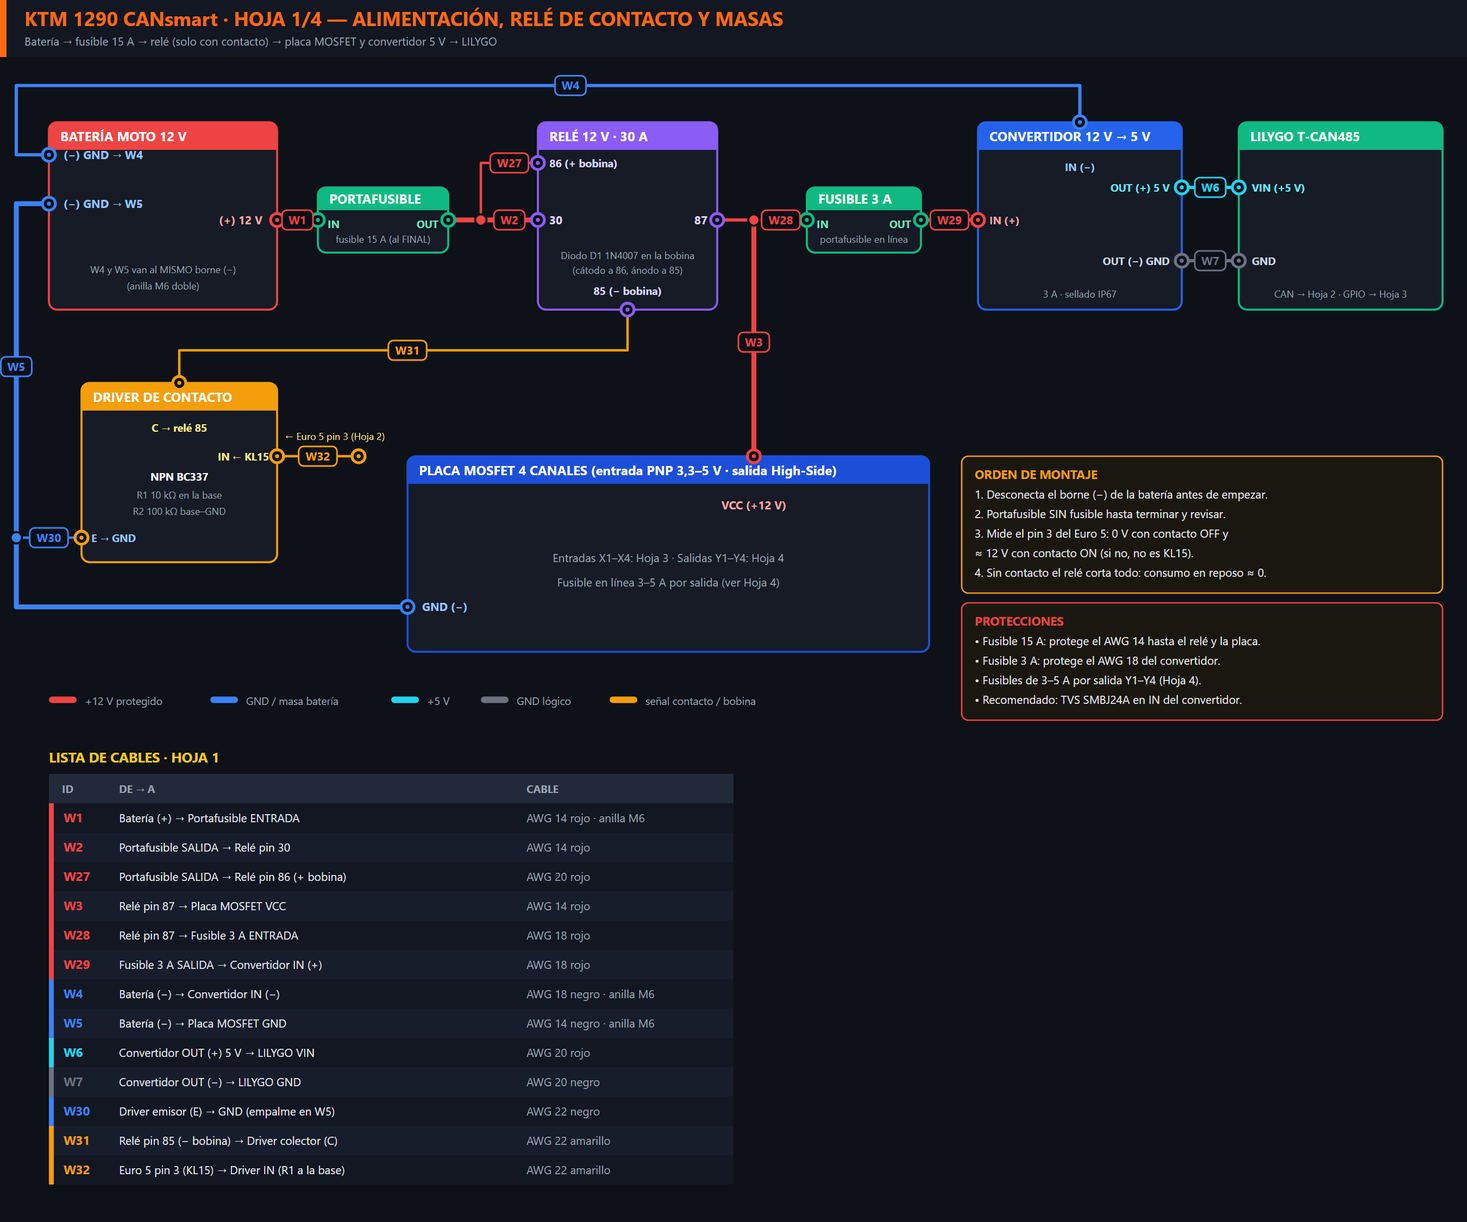
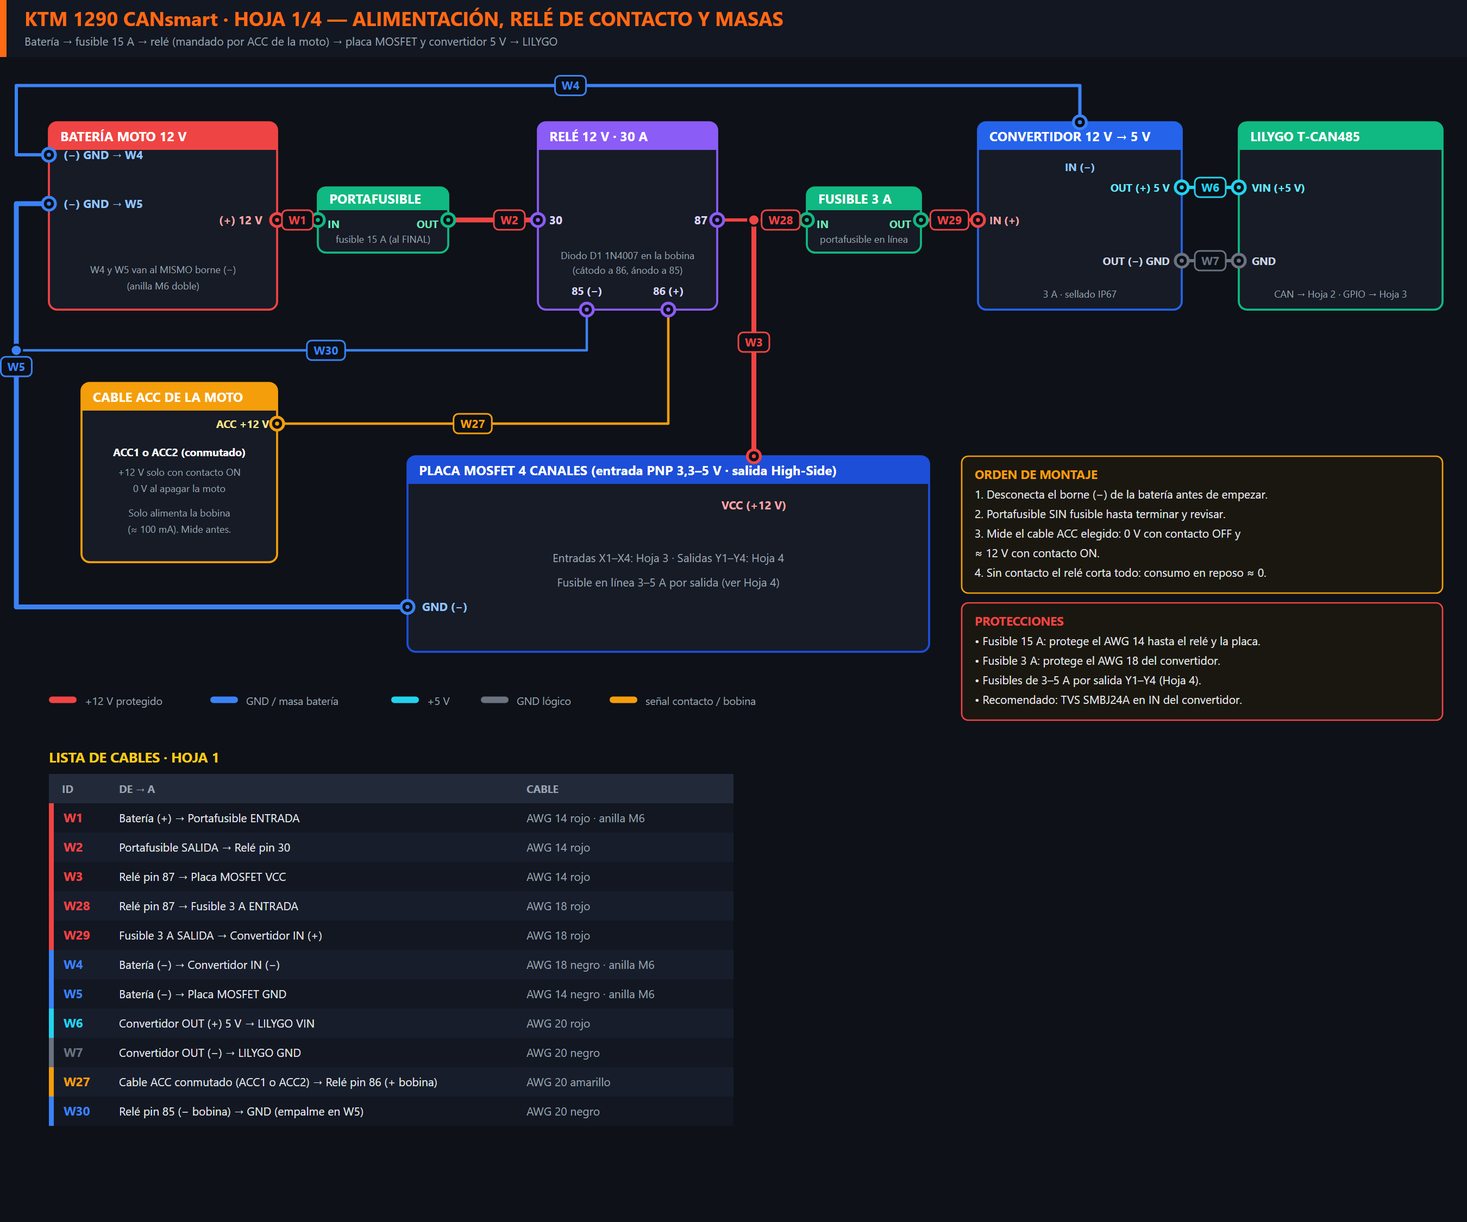
Relé de contacto mandado por ACC1/ACC2 de la moto; se elimina el driver NPN y el uso del pin 3 Euro 5

diff --git a/hardware/generate_diagrams.py b/hardware/generate_diagrams.py
@@ -150,7 +150,7 @@ COLS = [("ID", 70), ("DE  →  A", 500), ("CABLE", 270)]
 def sheet1():
     PURPLE = "#8b5cf6"
     s = Sheet("01_alimentacion", 1, "ALIMENTACIÓN, RELÉ DE CONTACTO Y MASAS",
-              "Batería → fusible 15 A → relé (solo con contacto) → placa MOSFET y convertidor 5 V → LILYGO", 1800, 1500)
+              "Batería → fusible 15 A → relé (mandado por ACC de la moto) → placa MOSFET y convertidor 5 V → LILYGO", 1800, 1500)
 
     # Batería
     s.box(60, 150, 280, 230, "BATERÍA MOTO 12 V", RED)
@@ -169,9 +169,9 @@ def sheet1():
     # Relé de contacto
     s.box(660, 150, 220, 230, "RELÉ 12 V · 30 A", PURPLE)
     s.text(674, 275, "30", 14, "#ddd6fe", "bold")
-    s.text(674, 205, "86 (+ bobina)", 13, "#ddd6fe", "bold")
     s.text(868, 275, "87", 14, "#ddd6fe", "bold", "end")
-    s.text(770, 362, "85 (− bobina)", 13, "#ddd6fe", "bold", "middle")
+    s.text(720, 362, "85 (−)", 13, "#ddd6fe", "bold", "middle")
+    s.text(820, 362, "86 (+)", 13, "#ddd6fe", "bold", "middle")
     s.text(770, 318, "Diodo D1 1N4007 en la bobina", 12, MUTED, "normal", "middle")
     s.text(770, 336, "(cátodo a 86, ánodo a 85)", 12, MUTED, "normal", "middle")
 
@@ -196,14 +196,13 @@ def sheet1():
     s.text(1645, 365, "CAN → Hoja 2 · GPIO → Hoja 3", 12, MUTED, "normal", "middle")
 
     # Driver de contacto
-    s.box(100, 470, 240, 220, "DRIVER DE CONTACTO", AMBER)
-    s.text(220, 530, "C → relé 85", 13, "#fde68a", "bold", "middle")
-    s.text(330, 565, "IN ← KL15", 13, "#fde68a", "bold", "end")
-    s.text(112, 665, "E → GND", 13, "#93c5fd", "bold")
-    s.text(220, 590, "NPN BC337", 13, "#ffffff", "bold", "middle")
-    s.text(220, 612, "R1 10 kΩ en la base", 12, MUTED, "normal", "middle")
-    s.text(220, 632, "R2 100 kΩ base–GND", 12, MUTED, "normal", "middle")
-    s.text(350, 540, "← Euro 5 pin 3 (Hoja 2)", 12, "#fde68a")
+    s.box(100, 470, 240, 220, "CABLE ACC DE LA MOTO", AMBER)
+    s.text(330, 525, "ACC +12 V", 13, "#fde68a", "bold", "end")
+    s.text(220, 560, "ACC1 o ACC2 (conmutado)", 13, "#ffffff", "bold", "middle")
+    s.text(220, 584, "+12 V solo con contacto ON", 12, MUTED, "normal", "middle")
+    s.text(220, 604, "0 V al apagar la moto", 12, MUTED, "normal", "middle")
+    s.text(220, 634, "Solo alimenta la bobina", 12, MUTED, "normal", "middle")
+    s.text(220, 654, "(≈ 100 mA). Mide antes.", 12, MUTED, "normal", "middle")
 
     # Placa MOSFET
     s.box(500, 560, 640, 240, "PLACA MOSFET 4 CANALES (entrada PNP 3,3–5 V · salida High-Side)", "#1d4ed8")
@@ -215,7 +214,6 @@ def sheet1():
     # Cables
     s.wire([(340, 270), (390, 270)], RED, 6, "W1", (365, 270))
     s.wire([(550, 270), (660, 270)], RED, 6, "W2", (625, 270))
-    s.wire([(590, 270), (590, 200), (660, 200)], RED, 3, "W27", (625, 200))
     s.wire([(925, 270), (925, 560)], RED, 6, "W3", (925, 420))
     s.wire([(880, 270), (990, 270)], RED, 4, "W28", (958, 270))
     s.wire([(1130, 270), (1200, 270)], RED, 4, "W29", (1165, 270))
@@ -223,25 +221,22 @@ def sheet1():
     s.wire([(60, 250), (20, 250), (20, 745), (500, 745)], BLUE, 6, "W5", (20, 450))
     s.wire([(1450, 230), (1520, 230)], CYAN, 4, "W6", (1485, 230))
     s.wire([(1450, 320), (1520, 320)], GREY, 4, "W7", (1485, 320))
-    s.wire([(100, 660), (20, 660)], BLUE, 3, "W30", (60, 660))
-    s.wire([(770, 380), (770, 430), (220, 430), (220, 470)], AMBER, 3, "W31", (500, 430))
-    s.wire([(340, 560), (440, 560)], AMBER, 3, "W32", (390, 560))
+    s.wire([(340, 520), (820, 520), (820, 380)], AMBER, 3, "W27", (580, 520))
+    s.wire([(720, 380), (720, 430), (20, 430)], BLUE, 3, "W30", (400, 430))
 
     # Terminales
-    for x, y, c in [(340, 270, RED), (390, 270, GREEN), (550, 270, GREEN), (660, 270, PURPLE), (660, 200, PURPLE),
-                    (880, 270, PURPLE), (770, 380, PURPLE), (990, 270, GREEN), (1130, 270, GREEN),
+    for x, y, c in [(340, 270, RED), (390, 270, GREEN), (550, 270, GREEN), (660, 270, PURPLE),
+                    (880, 270, PURPLE), (720, 380, PURPLE), (820, 380, PURPLE), (990, 270, GREEN), (1130, 270, GREEN),
                     (1200, 270, RED), (925, 560, RED), (60, 190, BLUE), (60, 250, BLUE), (1325, 150, BLUE),
                     (1450, 230, CYAN), (1450, 320, GREY), (1520, 230, CYAN), (1520, 320, GREY),
-                    (500, 745, BLUE), (100, 660, AMBER), (220, 470, AMBER), (340, 560, AMBER), (440, 560, AMBER)]:
+                    (500, 745, BLUE), (340, 520, AMBER)]:
         s.term(x, y, c)
-    s.junction(590, 270, RED)
     s.junction(925, 270, RED)
-    s.junction(20, 660, BLUE)
+    s.junction(20, 430, BLUE)
 
     rows = [
         ("W1", "Batería (+)  →  Portafusible ENTRADA", "AWG 14 rojo · anilla M6", RED),
         ("W2", "Portafusible SALIDA  →  Relé pin 30", "AWG 14 rojo", RED),
-        ("W27", "Portafusible SALIDA  →  Relé pin 86 (+ bobina)", "AWG 20 rojo", RED),
         ("W3", "Relé pin 87  →  Placa MOSFET VCC", "AWG 14 rojo", RED),
         ("W28", "Relé pin 87  →  Fusible 3 A ENTRADA", "AWG 18 rojo", RED),
         ("W29", "Fusible 3 A SALIDA  →  Convertidor IN (+)", "AWG 18 rojo", RED),
@@ -249,16 +244,15 @@ def sheet1():
         ("W5", "Batería (−)  →  Placa MOSFET GND", "AWG 14 negro · anilla M6", BLUE),
         ("W6", "Convertidor OUT (+) 5 V  →  LILYGO VIN", "AWG 20 rojo", CYAN),
         ("W7", "Convertidor OUT (−)  →  LILYGO GND", "AWG 20 negro", GREY),
-        ("W30", "Driver emisor (E)  →  GND (empalme en W5)", "AWG 22 negro", BLUE),
-        ("W31", "Relé pin 85 (− bobina)  →  Driver colector (C)", "AWG 22 amarillo", AMBER),
-        ("W32", "Euro 5 pin 3 (KL15)  →  Driver IN (R1 a la base)", "AWG 22 amarillo", AMBER),
+        ("W27", "Cable ACC conmutado (ACC1 o ACC2)  →  Relé pin 86 (+ bobina)", "AWG 20 amarillo", AMBER),
+        ("W30", "Relé pin 85 (− bobina)  →  GND (empalme en W5)", "AWG 20 negro", BLUE),
     ]
     s.table(60, 950, COLS, rows, "LISTA DE CABLES · HOJA 1")
     s.note(1180, 560, 590, [
         "1. Desconecta el borne (−) de la batería antes de empezar.",
         "2. Portafusible SIN fusible hasta terminar y revisar.",
-        "3. Mide el pin 3 del Euro 5: 0 V con contacto OFF y",
-        "   ≈ 12 V con contacto ON (si no, no es KL15).",
+        "3. Mide el cable ACC elegido: 0 V con contacto OFF y",
+        "   ≈ 12 V con contacto ON.",
         "4. Sin contacto el relé corta todo: consumo en reposo ≈ 0.",
     ], AMBER, "ORDEN DE MONTAJE")
     s.note(1180, 740, 590, [
@@ -284,7 +278,7 @@ def sheet2():
     pins = [
         ("1", "CAN-H", "Naranja / Negro", CAN_H, "→ W8"),
         ("2", "CAN-L", "Naranja / Marrón", CAN_L, "→ W9"),
-        ("3", "+12 V", "contacto (KL15)", AMBER, "→ W32 (solo señal)"),
+        ("3", "s/ verificar", "no usado", GREY, "NO CONECTAR"),
         ("4", "GND", "masa", "#94a3b8", "→ W10"),
         ("5", "K-Line", "diagnóstico", GREY, "NO CONECTAR"),
         ("6", "Aux", "diagnóstico", GREY, "NO CONECTAR"),
@@ -311,12 +305,6 @@ def sheet2():
         s.text(x0 + 70, 644, name, 17, "#ffffff", "bold", "middle")
         s.text(x0 + 70, 672, sub, 12, MUTED, "normal", "middle")
 
-    s.cell(410, 440, 140, 70, AMBER)
-    s.text(480, 470, "DRIVER CONTACTO", 13, "#ffffff", "bold", "middle")
-    s.text(480, 492, "Hoja 1 · R1 10 kΩ", 12, MUTED, "normal", "middle")
-    s.wire([(480, 315), (480, 440)], AMBER, 4, "W32", (480, 380))
-    s.term(480, 315, AMBER)
-    s.term(480, 440, AMBER)
     s.text(80, 735, "Transceptor SN65HVD231 interno · TWAI a 500 kbps · RX = GPIO 26, TX = GPIO 27 (ya cableados en la placa)", 13, MUTED)
     s.text(80, 760, "El firmware activa GPIO 16 = HIGH al arrancar (alimenta el transceptor).", 13, MUTED)
 
@@ -330,13 +318,11 @@ def sheet2():
         ("W8", "Euro 5 Pin 1 (CAN-H)  →  LILYGO CAN_H", "AWG 22 · naranja/negro", CAN_H),
         ("W9", "Euro 5 Pin 2 (CAN-L)  →  LILYGO CAN_L", "AWG 22 · naranja/marrón", CAN_L),
         ("W10", "Euro 5 Pin 4 (GND)  →  LILYGO GND (bornera CAN)", "AWG 22 · negro", "#94a3b8"),
-        ("W32", "Euro 5 Pin 3 (KL15)  →  Driver de contacto (Hoja 1)", "AWG 22 · amarillo", AMBER),
     ]
     s.table(1090, 185, [("ID", 70), ("DE  →  A", 390), ("CABLE", 210)], rows, "LISTA DE CABLES · HOJA 2")
     s.note(1090, 400, 660, [
-        "• Pin 3 (KL15): SOLO como señal hacia el driver (W32), NUNCA potencia.",
-        "  Verifica: 0 V con contacto OFF y ≈ 12 V con ON.",
-        "• Pines 5 y 6 (K-Line/aux): sin conectar.",
+        "• Pines 3, 5 y 6: sin conectar. El contacto lo da el",
+        "  cable ACC de la moto (Hoja 1, W27), no el Euro 5.",
         "• Jumper/interruptor de 120 Ω de la LILYGO en OFF:",
         "  la moto ya trae sus dos resistencias de terminación.",
         "• Con la batería desconectada, entre CAN_H y CAN_L",

diff --git a/EsquematicoConexiones.md b/EsquematicoConexiones.md
@@ -2,14 +2,14 @@
 
 Guía de cableado de la **KTM 1290 Super Adventure S (2024 Euro 5)** con los materiales de [`ListaCompras.md`](ListaCompras.md).
 
-El esquema está dividido en **4 hojas**. Cada hoja es una etapa del montaje, **cada cable tiene un ID (W1…W32)** que es el mismo en la imagen y en las tablas de este documento, y ningún cable se cruza ni se solapa con otro.
+El esquema está dividido en **4 hojas**. Cada hoja es una etapa del montaje, **cada cable tiene un ID (W1…W30)** que es el mismo en la imagen y en las tablas de este documento, y ningún cable se cruza ni se solapa con otro.
 
 > 🖼 Cada hoja existe en **PNG** (para ver/imprimir) y en **SVG** (el mismo dibujo en vectorial, ampliable sin perder calidad) dentro de [`hardware/diagramas/`](hardware/diagramas/). Son idénticos: usa el que prefieras. Se regeneran con `python hardware/generate_diagrams.py`.
 
 | Hoja | Qué conectas | Cables |
 | :---: | :--- | :---: |
-| [1 · Alimentación](#hoja-1--alimentación-relé-de-contacto-y-masas) | Batería → fusible 15 A → relé de contacto → placa MOSFET y convertidor 5 V → LILYGO | W1–W7, W27–W32 |
-| [2 · Bus CAN](#hoja-2--bus-can-solo-escucha) | Conector rojo Euro 5 → LILYGO (y pin 3 → driver del relé) | W8–W10, W32 |
+| [1 · Alimentación](#hoja-1--alimentación-relé-de-contacto-y-masas) | Batería → fusible 15 A → relé de contacto (bobina por ACC de la moto) → placa MOSFET y convertidor 5 V → LILYGO | W1–W7, W27–W30 |
+| [2 · Bus CAN](#hoja-2--bus-can-solo-escucha) | Conector rojo Euro 5 → LILYGO (solo CAN-H, CAN-L y GND) | W8–W10 |
 | [3 · Señales PWM](#hoja-3--señales-pwm-lilygo--placa-mosfet) | LILYGO → entradas de la placa MOSFET | W11–W15 |
 | [4 · Salidas](#hoja-4--salidas-a-los-conectores-superseal) | Placa MOSFET → 4 conectores Superseal + regleta GND | W16–W26 |
 
@@ -25,7 +25,6 @@ El esquema está dividido en **4 hojas**. Cada hoja es una etapa del montaje, **
 | :---: | :--- | :--- |
 | **W1** | Batería (+) → Portafusible ENTRADA | AWG 14 rojo · anilla M6 |
 | **W2** | Portafusible SALIDA → Relé pin 30 | AWG 14 rojo |
-| **W27** | Portafusible SALIDA → Relé pin 86 (+ bobina) | AWG 20 rojo |
 | **W3** | Relé pin 87 → Placa MOSFET VCC | AWG 14 rojo |
 | **W28** | Relé pin 87 → Fusible 3 A ENTRADA | AWG 18 rojo |
 | **W29** | Fusible 3 A SALIDA → Convertidor IN (+) | AWG 18 rojo |
@@ -33,15 +32,14 @@ El esquema está dividido en **4 hojas**. Cada hoja es una etapa del montaje, **
 | **W5** | Batería (−) → Placa MOSFET GND | AWG 14 negro · anilla M6 |
 | **W6** | Convertidor OUT (+) 5 V → LILYGO VIN | AWG 20 rojo |
 | **W7** | Convertidor OUT (−) → LILYGO GND | AWG 20 negro |
-| **W30** | Driver emisor (E) → GND (empalme en W5) | AWG 22 negro |
-| **W31** | Relé pin 85 (− bobina) → Driver colector (C) | AWG 22 amarillo |
-| **W32** | Euro 5 pin 3 (KL15) → Driver IN (R1 10 kΩ a la base) | AWG 22 amarillo |
+| **W27** | Cable ACC conmutado (ACC1 o ACC2) → Relé pin 86 (+ bobina) | AWG 20 amarillo |
+| **W30** | Relé pin 85 (− bobina) → GND (empalme en W5) | AWG 20 negro |
 
 **Por qué hay un relé de contacto:** sin él, la LILYGO (con WiFi), el convertidor y la placa MOSFET quedan conectados al +12 V permanente y consumen unos 60–100 mA incluso con la moto parada (≈ 2 Ah/día: descarga la batería en pocos días). Con el relé, todo se corta cuando se quita el contacto y el consumo en reposo es ≈ 0.
 
-**Driver de contacto (módulo de 4 componentes):** transistor NPN `BC337`, resistencia `R1 10 kΩ` en serie con la base, resistencia `R2 100 kΩ` entre base y GND, y diodo `D1 1N4007` en antiparalelo con la bobina del relé (cátodo a pin 86, ánodo a pin 85). El pin 3 del Euro 5 solo entrega una señal de mando (unos 1 mA), nunca potencia.
+**Mando del relé por ACC:** la moto tiene los conectores **ACC1 y ACC2**, que según el propietario quedan a 0 V al apagar la moto. Uno de ellos (conmutado) alimenta **solo la bobina** del relé (pin 86, ≈ 100 mA) y el pin 85 va a masa. En paralelo con la bobina va el diodo `D1 1N4007` (cátodo a pin 86, ánodo a pin 85). Ya no hace falta transistor ni resistencias, y el pin 3 del Euro 5 no se usa. La potencia de las luces **no** sale del ACC, sino de la batería por el fusible de 15 A y el contacto del relé (pines 30/87).
 
-> ⚠ **Antes de montar el driver, mide el pin 3 del Euro 5** con un multímetro respecto al pin 4 (GND): debe dar ≈ 0 V con el contacto OFF y ≈ 12 V con el contacto ON. Si no es así, no es KL15 y habrá que usar otra toma de contacto (p. ej. la salida switched del fusible del contacto de la moto).
+> ⚠ **Antes de conectar, mide el cable ACC elegido** con un multímetro respecto a masa: debe dar ≈ 0 V con el contacto OFF y ≈ 12 V con el contacto ON. Comprueba también en el manual qué corriente y fusible tiene el circuito ACC (la bobina solo necesita ≈ 100 mA).
 
 **Fusibles:** 15 A en el portafusible principal (protege el AWG 14 y la placa), 3 A en línea para el convertidor (AWG 18) y 3–5 A en línea en cada salida Y1–Y4 (AWG 16).
 
@@ -56,9 +54,8 @@ El esquema está dividido en **4 hojas**. Cada hoja es una etapa del montaje, **
 | **W8** | Euro 5 Pin 1 (CAN-H, naranja/negro) → LILYGO `CAN_H` | AWG 22 |
 | **W9** | Euro 5 Pin 2 (CAN-L, naranja/marrón) → LILYGO `CAN_L` | AWG 22 |
 | **W10** | Euro 5 Pin 4 (GND) → LILYGO `GND` (bornera CAN) | AWG 22 |
-| **W32** | Euro 5 Pin 3 (KL15) → Driver de contacto (Hoja 1), solo señal | AWG 22 amarillo |
 
-Pines 5/6 (K-Line/aux) del conector Euro 5: **no se conectan**. El Pin 3 se usa **solo como señal** hacia el driver del relé (W32), nunca como alimentación.
+Pines 3, 5 y 6 del conector Euro 5: **no se conectan**. El contacto lo da el cable ACC de la moto (Hoja 1, W27), no el Euro 5.
 
 ---
 
@@ -114,9 +111,9 @@ Recomendado: una resistencia de **10 kΩ** de cada entrada X1–X4 a COM, para q
 ```mermaid
 graph LR
     BAT["Batería 12 V"] -->|W1| FUSE["Portafusible 15 A"]
-    FUSE -->|"W2, W27"| REL["Relé de contacto"]
-    EURO3["Euro 5 pin 3 (KL15)"] -->|"W32 (señal)"| DRV["Driver NPN"]
-    DRV -->|W31| REL
+    FUSE -->|"W2"| REL["Relé de contacto"]
+    ACC["Cable ACC1/ACC2 (conmutado)"] -->|"W27 (bobina 86)"| REL
+    REL -->|"W30 (85 a GND)"| GNDB["GND batería"]
     REL -->|W3| MOS["Placa MOSFET 4CH"]
     REL -->|"W28, W29 (fusible 3 A)"| DCDC["Convertidor 12V→5V"]
     BAT -->|"W4, W5 (GND)"| DCDC
@@ -138,6 +135,6 @@ graph LR
 3. **Escucha pasiva del bus CAN (Listen-Only):** el firmware usa `TWAI_MODE_LISTEN_ONLY`. Tu placa solo escucha; no envía ACK ni inyecta tramas, así que no afecta a la ECU ni al ABS.
 4. **Resistencia de 120 Ω de la LILYGO:** el bus CAN de la KTM ya tiene sus dos terminaciones. Si la placa trae un puente/interruptor `120R`/`R2`, **déjalo en OFF**. Entre CAN_H y CAN_L debes medir ≈ 60 Ω.
 5. **Conmutación High-Side obligatoria:** la placa MOSFET debe ser de salida **PNP (High-Side)**. Una de salida NPN (Low-Side) deja las luces encendidas siempre, porque la masa del chasis cierra el circuito.
-6. **Pin 3 del Euro 5 solo como señal:** mídelo antes (0 V con contacto OFF, ≈ 12 V con contacto ON) y úsalo únicamente para el driver del relé (W32).
+6. **ACC solo para la bobina del relé:** mide el cable ACC antes (0 V con contacto OFF, ≈ 12 V con ON). Nunca cargues las luces ni la placa en el ACC.
 7. **Cargas de más de 3–5 A:** nunca directas a una salida Y; usa un relé excitado por la salida, con fusible propio.
 8. **Aislamiento en la caja IP65:** fija la LILYGO y la placa MOSFET con separadores o cinta de espuma para que las soldaduras no se toquen con las vibraciones.

diff --git a/hardware/schematic_notes.md b/hardware/schematic_notes.md
@@ -13,12 +13,12 @@ En los modelos 2021-2024, KTM sustituyó los antiguos conectores propietarios y 
        ┌───────────────┐
        │   [ 1 ] [ 2 ] │     Pin 1: CAN High (CAN-H)  -> Cable Naranja/Negro
    ┌───┤   [ 3 ] [ 4 ] ├───┐ Pin 2: CAN Low (CAN-L)   -> Cable Naranja/Marrón
-   │   │   [ 5 ] [ 6 ] │   │ Pin 3: +12V Positivo Contacto (KL15)
+   │   │   [ 5 ] [ 6 ] │   │ Pin 3: sin uso (no verificado)
    └───┴───────────────┴───┘ Pin 4: Tierra / Masa (GND)
                              Pin 5 / 6: K-Line / Diagnóstico Auxiliar
 ```
 
-> **IMPORTANTE DE SEGURIDAD**: Para máxima fiabilidad y evitar caídas de tensión en accesorios de alta potencia (luces de 60W-120W), la alimentación de potencia **NO** debe tomarse del pin 3 del conector Euro 5. La potencia se toma **de los bornes de la batería (+12V permanente KL30) con un fusible aéreo de 15A** y pasa por un **relé de contacto** que solo cierra con la moto encendida (así el consumo en reposo es ≈ 0 y no se descarga la batería). El pin 3 del Euro 5 (KL15) se usa **solo como señal** de mando de ese relé (a través de un transistor), nunca como potencia; **mídelo antes** (0 V con contacto OFF, ≈ 12 V con ON). El resto del conector Euro 5 se usa para leer **CAN-H**, **CAN-L** y masa **GND**.
+> **IMPORTANTE DE SEGURIDAD**: Para máxima fiabilidad y evitar caídas de tensión en accesorios de alta potencia (luces de 60W-120W), la alimentación de potencia **NO** debe tomarse del pin 3 del conector Euro 5. La potencia se toma **de los bornes de la batería (+12V permanente KL30) con un fusible aéreo de 15A** y pasa por un **relé de contacto** que solo cierra con la moto encendida (así el consumo en reposo es ≈ 0 y no se descarga la batería). La bobina del relé se alimenta con el cable **ACC1 o ACC2** de la moto (conmutado: 0 V al apagar, ≈ 12 V con contacto), **solo para la bobina** (≈ 100 mA); **mídelo antes**. El pin 3 del Euro 5 no se usa. El resto del conector Euro 5 se usa para leer **CAN-H**, **CAN-L** y masa **GND**.
 
 ---
 
@@ -63,7 +63,7 @@ En los modelos 2021-2024, KTM sustituyó los antiguos conectores propietarios y 
      * Pin 1 (Naranja/Negro): `CAN_H` ➔ Borna CAN_H de la LILYGO.
      * Pin 2 (Naranja/Marrón): `CAN_L` ➔ Borna CAN_L de la LILYGO.
      * Pin 4 (Marrón/Negro): `GND` ➔ Borna GND de la LILYGO.
-     * Pin 3 (+12V contacto, KL15): **solo señal** hacia el driver NPN del relé de contacto (W32). Nunca como potencia.
+     * Pin 3: no se conecta. El mando del relé sale del cable ACC1/ACC2 de la moto (W27).
 
 2. **Convertidor Reductor DC-DC Automotriz (12V a 5V 3A)**:
    * **Modelo**: Carcasa sellada en resina epoxi impermeable (IP67).

diff --git a/ListaCompras.md b/ListaCompras.md
@@ -18,7 +18,7 @@ Guía completa y estado actualizado de compras para la construcción del clon DI
 | **Cable Siliconado** | ⏳ *Pendiente* | Cable de silicona flexible resistente al calor: **AWG 14** (batería) y **AWG 16** (focos) | [Comprar Cable Siliconado](https://es.aliexpress.com/w/wholesale-silicone-wire-awg14-awg16.html) |
 | **Terminales de Anilla M6** | ⏳ *Pendiente* | Terminales de anilla M6 para bornes de la batería | [Comprar Terminales M6](https://es.aliexpress.com/w/wholesale-ring-terminals-m6.html) |
 | **Relé de contacto** | ⏳ *Pendiente* | Relé automotriz 12 V 30 A (4 pines, ISO mini) + zócalo con cables | [Buscar relé 12V 30A](https://es.aliexpress.com/w/wholesale-12v-30a-automotive-relay-socket.html) |
-| **Driver del relé** | ⏳ *Pendiente* | 1 transistor NPN `BC337`, 1 diodo `1N4007`, resistencias: 1×10 kΩ, 1×100 kΩ (+ 4×10 kΩ opcionales para las entradas X1–X4) | [Buscar kit resistencias y transistores](https://es.aliexpress.com/w/wholesale-bc337-1n4007-resistor-kit.html) |
+| **Diodo y pull-downs** | ⏳ *Pendiente* | 1 diodo `1N4007` en la bobina del relé; 4×10 kΩ opcionales (pull-down de las entradas X1–X4). Para derivar el cable ACC: conector o toma tipo Posi-Tap/Wago | [Buscar kit resistencias y transistores](https://es.aliexpress.com/w/wholesale-bc337-1n4007-resistor-kit.html) |
 | **Fusibles en línea** | ⏳ *Pendiente* | 1 fusible de 15 A (principal), 1 portafusible mini ATO con fusible de 3 A (convertidor) y 4 portafusibles mini ATO con fusibles de 3–5 A (salidas) | [Buscar portafusibles ATO en línea](https://es.aliexpress.com/w/wholesale-inline-mini-blade-fuse-holder.html) |
 | **TVS (opcional)** | ⏳ *Pendiente* | Diodo TVS `SMBJ24A` en la entrada del convertidor (picos de alternador) | [Buscar SMBJ24A](https://es.aliexpress.com/w/wholesale-smbj24a.html) |
 | **Regleta de masa (GND)** | ⏳ *Pendiente* | Conectores de palanca **Wago 221-415** (5 vías) o equivalente, para repartir la masa a los 4 conectores | [Buscar Wago 221-415](https://es.aliexpress.com/w/wholesale-wago-221-415.html) |

diff --git a/README.md b/README.md
@@ -59,7 +59,7 @@ El sistema replica fielmente la lógica de control desde la piña izquierda orig
   * Pin 1: `CAN-High` (Cable Naranja/Negro)
   * Pin 2: `CAN-Low` (Cable Naranja/Marrón)
   * Pin 4: `GND` (Masa)
-* **Alimentación de Potencia**: Desde los bornes de la batería con **fusible de 15A** y a través de un **relé de contacto** (mandado por el pin 3 del Euro 5 como señal) para que no haya consumo con la moto parada.
+* **Alimentación de Potencia**: Desde los bornes de la batería con **fusible de 15A** y a través de un **relé de contacto** (bobina mandada por el cable ACC1/ACC2 conmutado de la moto) para que no haya consumo con la moto parada.
 * **Protección del Microcontrolador**: El driver TWAI del ESP32 opera en **`TWAI_MODE_LISTEN_ONLY`** (escucha pasiva). Nunca transmite pulsos de ACK ni inyecta datos al bus, garantizando cero interferencias con la ECU o el ABS Bosch de la moto.
 * 👉 **Esquema Completo de Cableado**: 4 hojas con cada cable numerado (W1–W26) en [EsquematicoConexiones.md](EsquematicoConexiones.md); imágenes en [hardware/diagramas/](hardware/diagramas/).
 
